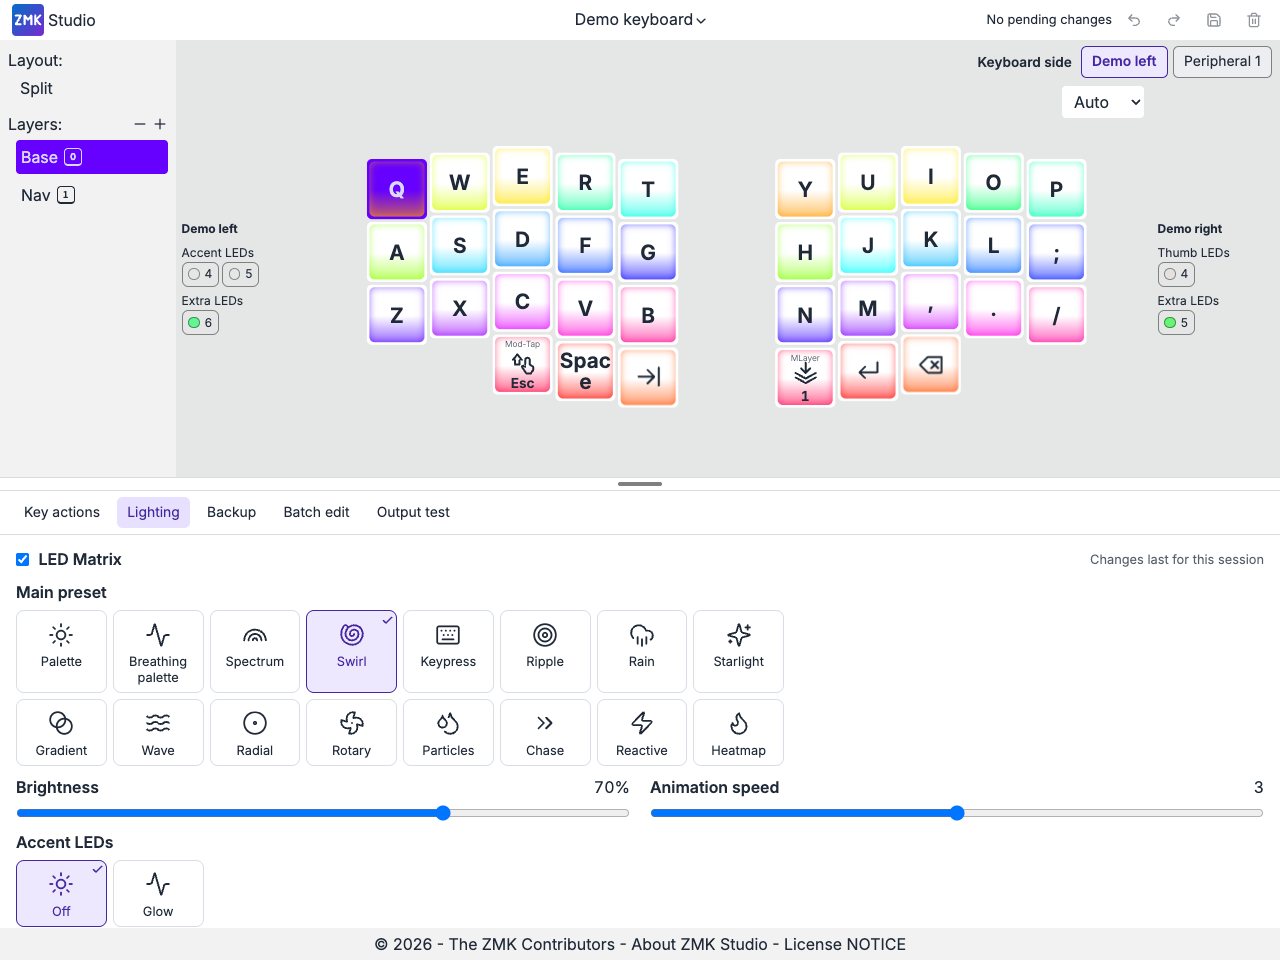
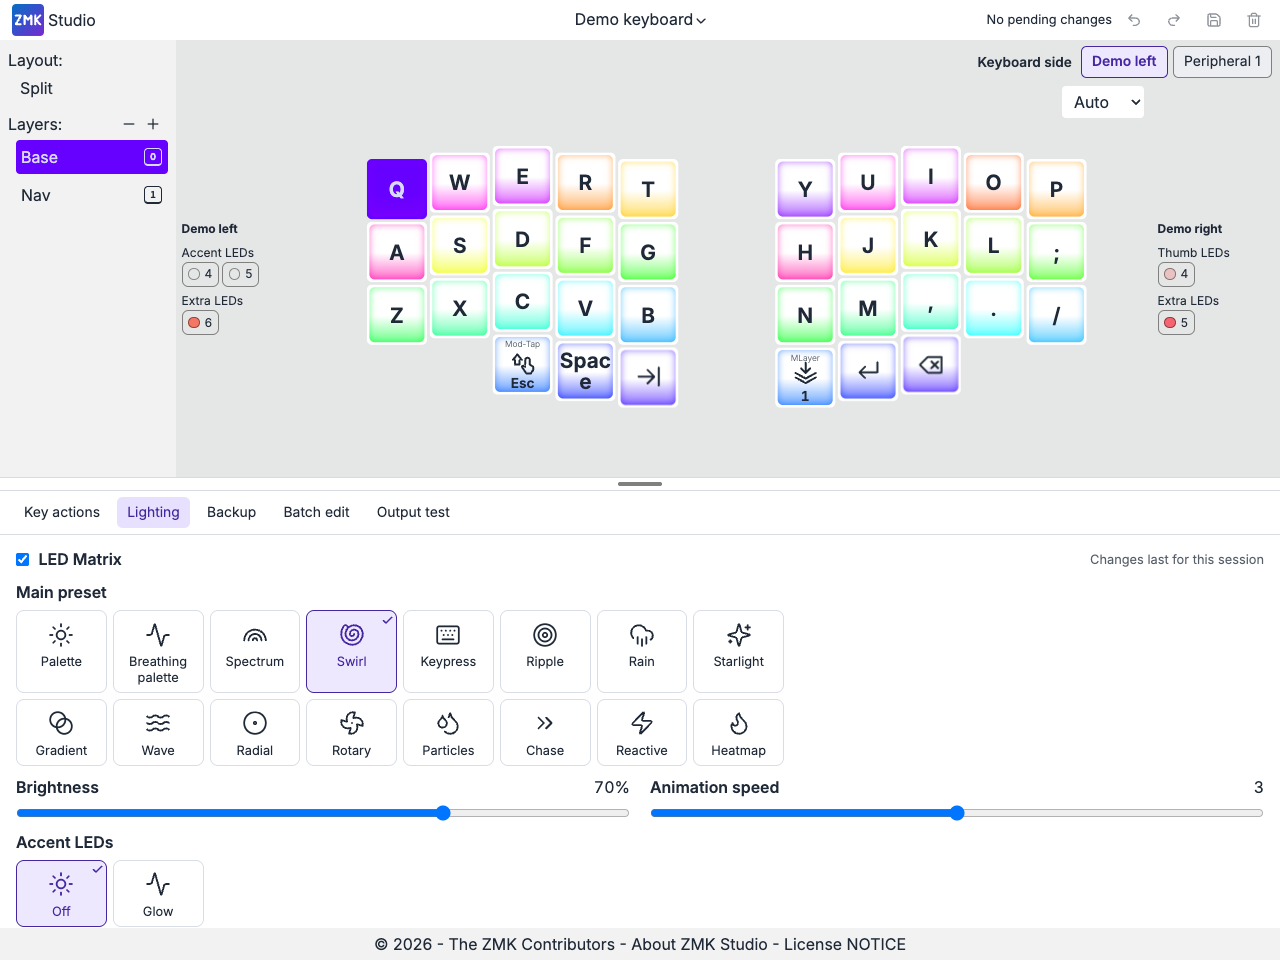
Align layer numbers with the add-layer button

Changed region(s): [[0.5938, 0.1562, 0.8438, 0.4375], [0.2812, 0.1562, 0.5312, 0.4375]]

diff --git a/src/keyboard/LayerPicker.tsx b/src/keyboard/LayerPicker.tsx
@@ -168,12 +168,13 @@ export const LayerPicker = ({
 
   return (
     <div className="flex flex-col min-w-40">
-      <div className="grid grid-cols-[1fr_auto_auto] items-center">
+      <div className="layer-picker-grid border-r border-transparent">
         <Label className="after:content-[':'] text-sm">Layers</Label>
         {onRemoveClicked && (
           <button
             type="button"
-            className="hover:text-primary-content hover:bg-primary rounded-sm"
+            aria-label="Remove layer"
+            className="col-start-2 justify-self-center hover:text-primary-content hover:bg-primary rounded-sm"
             disabled={!canRemove}
             onClick={onRemoveClicked}
           >
@@ -184,7 +185,8 @@ export const LayerPicker = ({
           <button
             type="button"
             disabled={!canAdd}
-            className="hover:text-primary-content ml-1 hover:bg-primary rounded-sm disabled:text-gray-500 disabled:hover:bg-base-300 disabled:cursor-not-allowed"
+            aria-label="Add layer"
+            className="col-start-3 justify-self-center hover:text-primary-content hover:bg-primary rounded-sm disabled:text-gray-500 disabled:hover:bg-base-300 disabled:cursor-not-allowed"
             onClick={onAddClicked}
           >
             <Plus className="size-4" />
@@ -217,20 +219,20 @@ export const LayerPicker = ({
         {(layer_item) => (
           <ListBoxItem
             textValue={`${layer_item.label} ${layer_item.index}`}
-            className="p-1 b-1 my-1 group grid grid-cols-[1fr_auto] items-center aria-selected:bg-primary aria-selected:text-primary-content border rounded border-transparent border-solid hover:bg-base-300"
+            className="layer-picker-grid py-1 pl-1 my-1 group aria-selected:bg-primary aria-selected:text-primary-content border rounded border-transparent border-solid hover:bg-base-300"
           >
-            <span className="flex min-w-0 items-center gap-1.5">
-              <span className="truncate">{layer_item.label}</span>
-              <span className="inline-flex h-[1.125rem] min-w-[1.125rem] shrink-0 items-center justify-center rounded-[4px] border border-b-2 border-solid border-current px-1 font-[ui-monospace,monospace] text-[11px] font-semibold leading-none tabular-nums">
-                {layer_item.index}
-              </span>
+            <span className="truncate [contain:inline-size]" title={layer_item.label}>
+              {layer_item.label}
             </span>
             <Pencil
-              className="h-4 w-4 mx-1 invisible group-hover:visible"
+              className="size-4 justify-self-center invisible group-hover:visible"
               onClick={() =>
                 setEditLabelData({ id: layer_item.id, name: layer_item.name })
               }
             />
+            <span className="inline-flex h-[1.125rem] min-w-[1.125rem] items-center justify-center justify-self-center rounded-[4px] border border-b-2 border-solid border-current px-1 font-[ui-monospace,monospace] text-[11px] font-semibold leading-none tabular-nums">
+              {layer_item.index}
+            </span>
           </ListBoxItem>
         )}
       </ListBox>

diff --git a/src/index.css b/src/index.css
@@ -76,6 +76,11 @@ body {
   grid-row: 1;
   overflow: auto;
 }
+.layer-picker-grid {
+  display: grid;
+  grid-template-columns: minmax(0, 1fr) 1.25rem 1.75rem;
+  align-items: center;
+}
 .keyboard-canvas {
   position: relative;
   display: grid;
